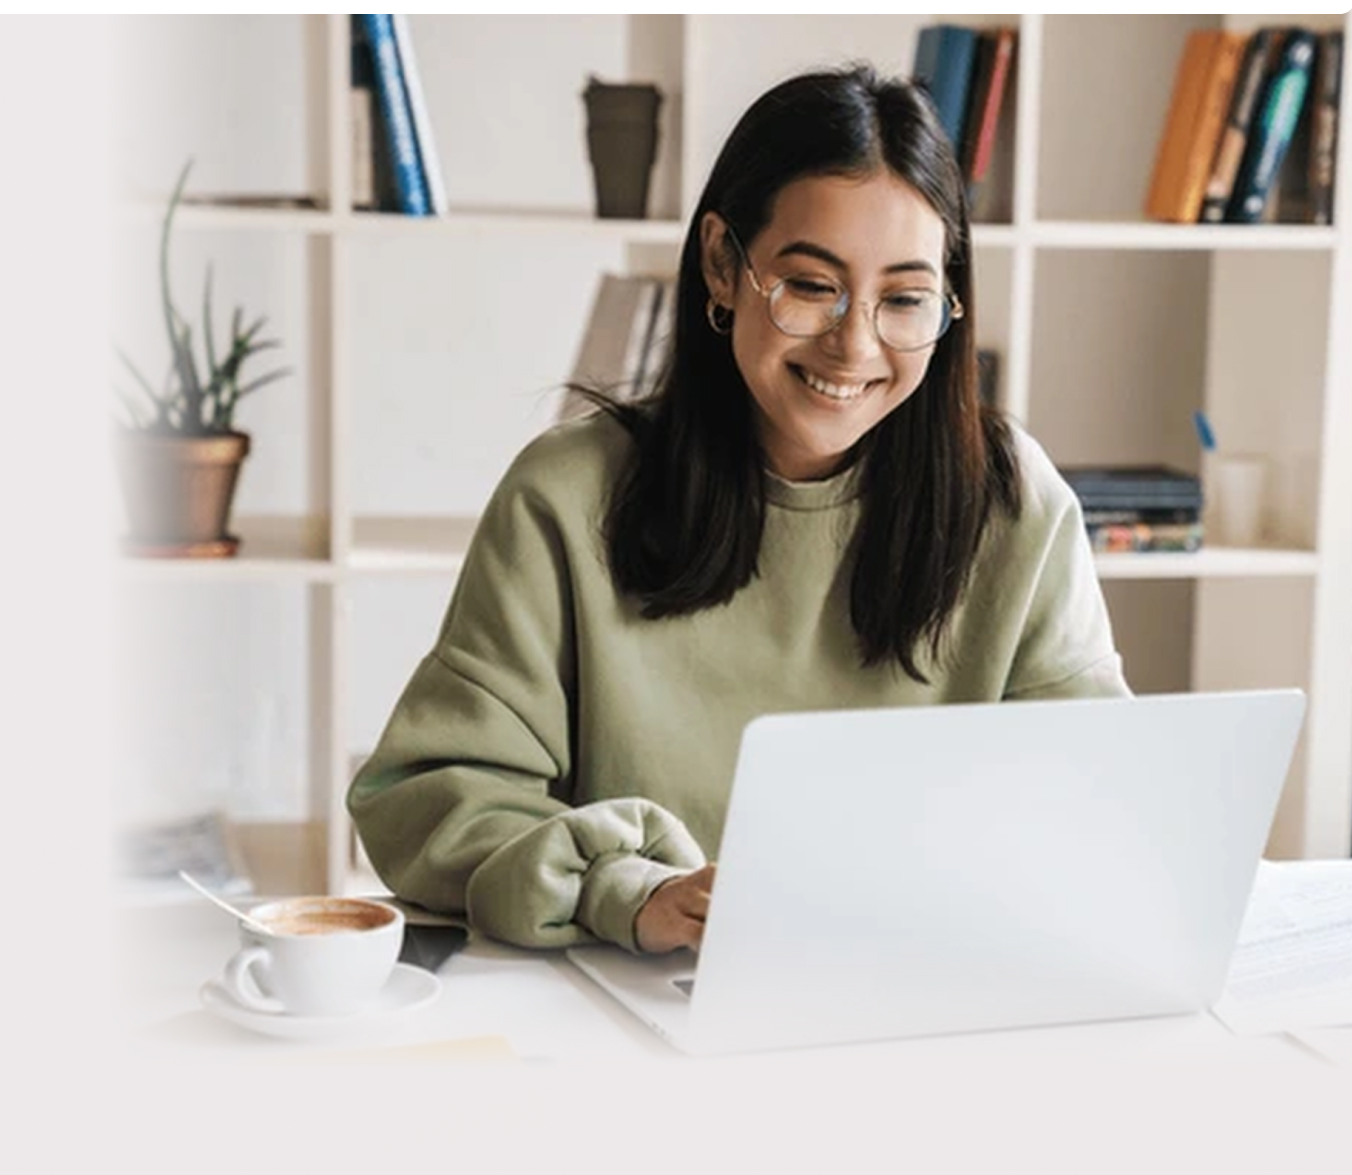
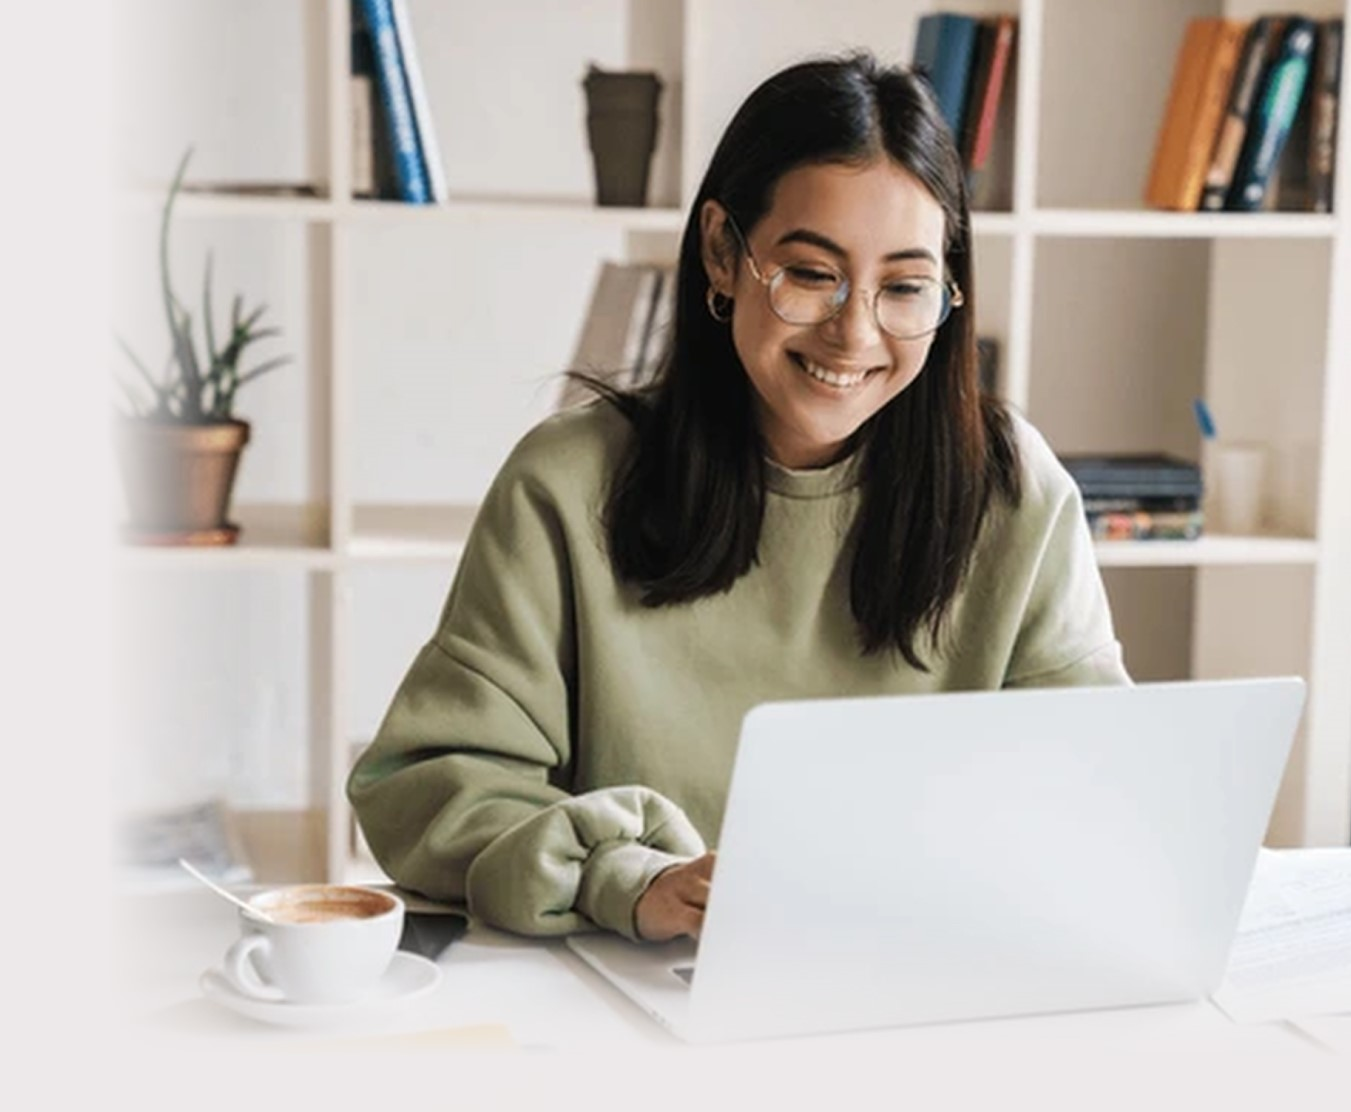
.

diff --git a/client/src/components/prueba.css b/client/src/components/prueba.css
@@ -19,9 +19,9 @@ body {
 
 /* Contenedor texto Screening vocacional */
 .intro-content {
-    max-width: 50%; 
+    max-width: 500%; 
    color: #134590;
-   font-family: Sk-Modernist;
+   font-family: sans-serif;
    display: flex; 
 
 }
@@ -35,7 +35,7 @@ body {
 /* Estilos para la imagen  */
 .intro-image img {
     width: 100%; 
-    height: 800px; 
+    height: 550px; 
     display: flex; 
     margin-top: -100px;
     
@@ -44,28 +44,17 @@ body {
 /* Estilos para el botón */
 .button {
     padding: 10px 20px; 
-    background-color: #37B5B6; 
+    background-color: #3ab9b9; 
     color: white; 
     border: none;
     border-radius: 5px; 
     cursor: pointer; 
     font-size: 18px; 
     margin-top: 20px; 
+    
 }
 
 /* Estilos para la cabecera */
-.header {
-    display: flex; 
-    justify-content: space-between; 
-    align-items: center; 
-    padding: 0px; 
-    background-color: #FFFFFF; 
-    
-}
-.fotologo {
-    display: flex; 
-    margin-left: 130px;
-}
 
 /* Estilos para el logo */
 .logo {
@@ -74,19 +63,6 @@ body {
 }
 
 /* Estilos para la barra de navegación */
-.navbar ul {
-    list-style: none; 
-    display: flex;
-    gap: 20px; 
-    margin: 0; 
-    padding: 0; 
-}
-
-/* Estilos para los elementos de la barra de navegación */
-.navbar li {
-    cursor: pointer; 
-    color: #333; 
-}
 
 /* Sección de introducción con imagen de fondo */
 .intro {
@@ -134,7 +110,7 @@ body {
     display: flex; /* Utiliza flexbox para el layout interno */
     flex-direction: row; /* Alinea los elementos en fila */
     justify-content: space-between; /* Espacio entre los elementos internos */
-    width: 100%; /* Ancho total del contenedor */
+    width: 150%; /* Ancho total del contenedor */
     max-width: 1200px; /* Ancho máximo para la tarjeta */
     box-sizing: border-box; /* Asegura que el padding y el border estén incluidos en el width */
 }
@@ -150,8 +126,8 @@ body {
 
 /* Estilos para los iconos y fotos de perfil */
 .icon, .profile-photo {
-    width: 100px;
-    height: 100px; 
+    width: 90px;
+    height: 90px; 
     border-radius: 50%; 
     margin-bottom: 15px; 
 }

diff --git a/client/src/components/prueba.js b/client/src/components/prueba.js
@@ -1,22 +1,14 @@
 import React from 'react'; // Importa React para poder usar JSX y crear componentes
 import { Link } from 'react-router-dom'; // Importa el componente Link de React Router para manejar la navegación
 import './Prueba.css';
+import Navbar from './Navbar.js';
 
 const Prueba = () => { // Define el componente funcional Prueba
   return (
-    
-    <div>
-      <header className="header fade-in"> {/* Contenedor del encabezado con clases para estilos */}
-      <img className="icon" src="/LOGO.jpg" alt="HODOS" />
-        <nav className="navbar"> {/* Barra de navegación */}
-          <ul>
-            <li><Link to="/about">Sobre Nosotros</Link></li> {/* Enlaces que navegan dentro de la app React */}
-            <li><Link to="/areas-de-interes">Áreas de Interés</Link></li>
-            <li><Link to="/especialistas">Especialistas</Link></li>
-          </ul>
-        </nav>
-      </header>
+  <>
+    <Navbar/>
 
+    <div>
       <section className="intro fade-in"> {/* Sección introductoria */}
         <div className="intro-content">
           <h1>Screening Vocacional</h1> {/* Título principal */}
@@ -80,17 +72,18 @@ const Prueba = () => { // Define el componente funcional Prueba
         <div className="card-container">
           <div className="card">
             <div className="card-content">
-              <img className="profile-photo" src="path_to_photo5" alt="Fernanda Cabalen" />
+            <img className="icon" src="/Nombres3.jpg" alt="Fernanda Cabalen" />
               <p className="profile-name">Lic. Fernanda Cabalen</p>
             </div>
             <div className="card-content">
-              <img className="profile-photo" src="path_to_photo6" alt="Hernan Caruso" />
+            <img className="icon" src="/Nombres4.jpg" alt="Hernan Caruso" />
               <p className="profile-name">Lic. Hernan Caruso</p>
             </div>
           </div>
         </div>
       </section>
     </div>
+    </>
   );
 }
 

diff --git a/client/src/components/Navbar.html b/client/src/components/Navbar.html
@@ -4,14 +4,16 @@
   <meta charset="UTF-8">
   <meta name="viewport" content="width=device-width, initial-scale=1.0">
   <title>Página de Inicio con Navbar</title>
-  <link rel="stylesheet" href="Inicio.css"> <!-- Enlace al archivo CSS -->
+  <link rel="stylesheet" href="Navbar.css"> 
 </head>
 <body>
   <nav class="navbar">
-    <div class="navbar-brand">HODOS</div>
-    <div class="navbar-links">
-      <a href="SobreNosotros.html" class="button">Sobre Nosotros</a>
-      <a href="#especialistas">Especialistas</a>
+    <div className="logo">
+    <img src="../../public/LOGO.jpg" alt="HODSO">
+    </div>
+    <div class="menu">
+      <a href="SobreNosotros" className="menu-item">Sobre Nosotros</a>
+      <a href="#especialistas" className="menu-item">Especialistas</a>
       <button class="navbar-toggle">
         <span class="navbar-toggle-icon">&#9776;</span>
       </button>

diff --git a/client/src/components/Inicio.html b/client/src/components/Inicio.html
@@ -7,16 +7,7 @@
   <link rel="stylesheet" href="Inicio.css"> <!-- Enlace al archivo CSS -->
 </head>
 <body>
-  <nav class="navbar">
-    <div class="navbar-brand">HODOS</div>
-    <div class="navbar-links">
-      <a href="SobreNosotros.html" class="button">Sobre Nosotros</a>
-      <a href="#especialistas">Especialistas</a>
-      <button class="navbar-toggle">
-        <span class="navbar-toggle-icon">&#9776;</span>
-      </button>
-    </div>
-  </nav>
+  
   <div class="inicio-container">
     <div class="inicio-box">
       <h2>Antes de comenzar!</h2>

diff --git a/client/src/components/prueba.html b/client/src/components/prueba.html
@@ -6,18 +6,7 @@
     <link rel="stylesheet" href="Prueba.css">
 
     <title>Screening Vocacional</title>
-</head>
-<body>
-    <header class="header fade-in">
-        <img class = "fotologo" src="../../public/LOGO.jpg" alt="HODOS">
-        <nav class="navbar">
-            <ul>
-                <li>Sobre Nosotros</li>
-                <li>Áreas de Interés</li>
-                <li>Especialistas</li>
-            </ul>
-        </nav>
-    </header>
+
 
     <section class="intro fade-in">
         <div class="intro-content">

diff --git a/client/src/components/Navbar.css b/client/src/components/Navbar.css
@@ -1,0 +1,37 @@
+.navbar {
+    justify-content: space-between; 
+    display: flex;
+    align-items: center; 
+    background-color: rgb(255, 255, 255);
+    padding: 25px 10px;
+    height: 60px;
+}
+.menu {
+    display: flex;
+    gap: 20px; 
+    
+}
+
+.menu-item{
+
+    font-size: 18px;
+    padding: 10px 20px;
+    color: white;
+    border-radius: 5px;
+
+}
+
+.menu-item:hover {
+
+    background-color: mediumslateblue;
+
+}
+
+
+.logo {
+   font-size: 24px;
+   font-weight: bold;
+   margin-top: 5px;
+   
+
+}

diff --git a/client/src/components/Navbar.js b/client/src/components/Navbar.js
@@ -1,12 +1,14 @@
 import React from 'react';
-import './Inicio.css';
+import './Navbar.css';
 
 function Navbar() {
     return (
     <div>
         <nav class="navbar">
-    <div class="navbar-brand">HODOS</div>
-    <div class="navbar-links">
+    <div className="logo">
+    <img src="/LOGO.jpg" alt="HODOS"/>
+    </div>
+    <div class="navbar-menu">
       <a href="SobreNosotros.html" class="button">Sobre Nosotros</a>
       <a href="#especialistas">Especialistas</a>
       <button class="navbar-toggle">
